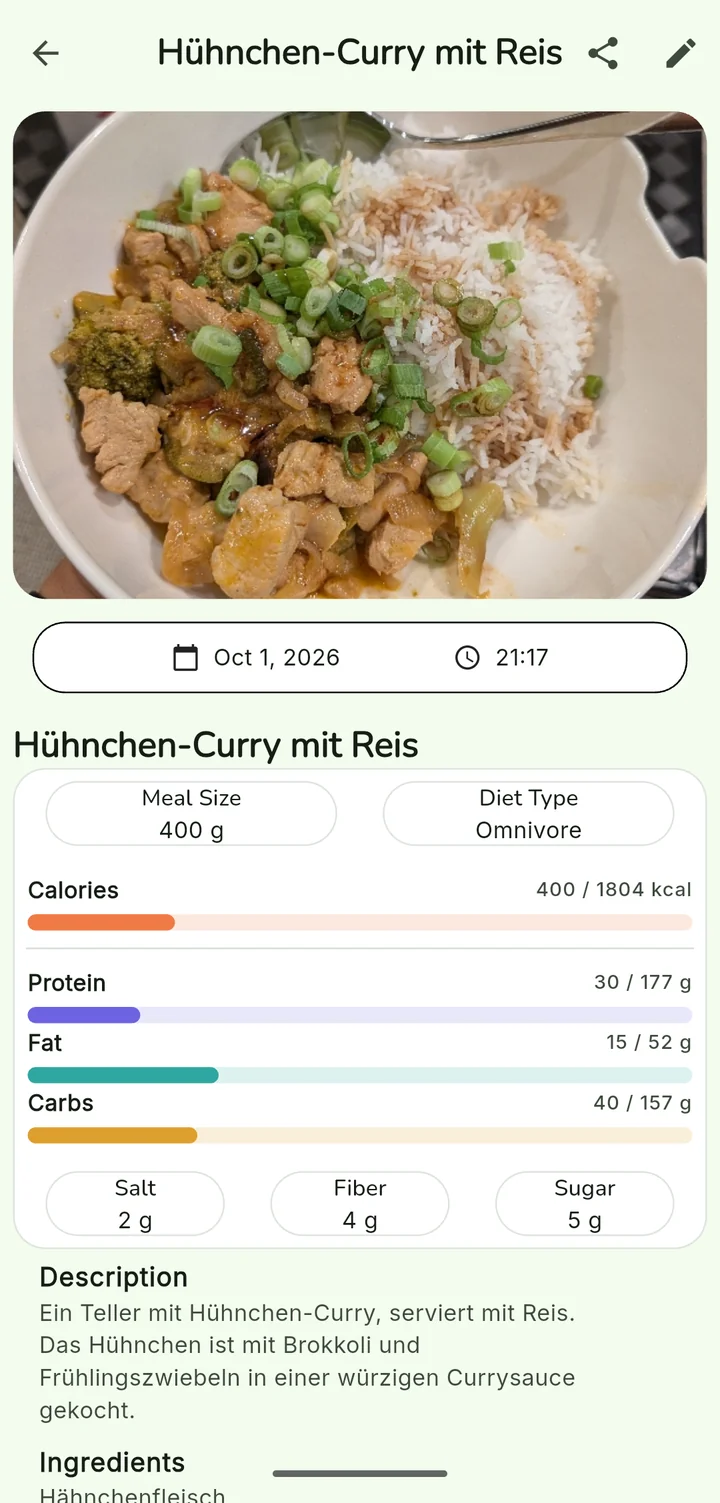
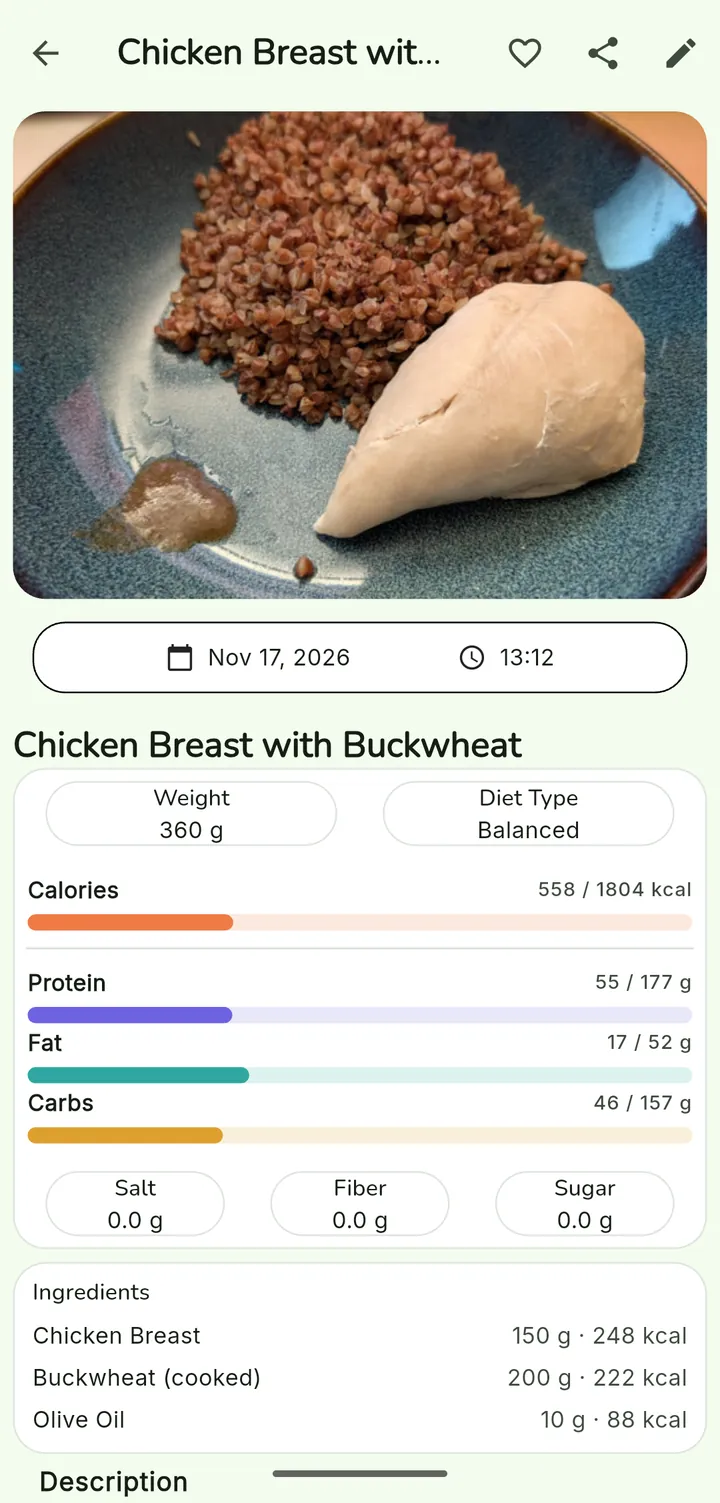
Refresh NutriMax screenshots from the current app
The NutriMax page shows four screens from the current UI: the tracking
screen, a meal's breakdown, editing a meal in Pro Mode, and the Meal
Board. The old day-review and barcode shots are removed.

The home page NutriMax card shows the old four-screen strip in place of
the emoji banner, and the app grid lets a single card fill the row.

diff --git a/nutrimax/index.html b/nutrimax/index.html
@@ -371,20 +371,20 @@ layout: null
       <!-- Real NutriMax screens, English UI; status bar cropped off. 720x1503 WebP. -->
       <div class="screenshots">
         <figure>
-          <img src="assets/screenshot-meal-board.webp" alt="The Meal Board: a wall of meal photos (dumplings, ramen, a bagel, curry, rice with salad) with a card reading 'Every meal is a fresh start.'" width="720" height="1503" loading="lazy">
-          <figcaption>Your meals, as a wall of photos</figcaption>
+          <img src="assets/screenshot-tracking.webp" alt="The tracking screen for one day: a strip of dates, 564 kcal left with protein, carbs and fat bars, and the day's meals with photos — ramen, sticky mango rice and summer rolls with prawns" width="720" height="1503" loading="lazy">
+          <figcaption>Your day at a glance</figcaption>
         </figure>
         <figure>
-          <img src="assets/screenshot-day-review.webp" alt="A tracked day: 1104 kcal left, protein, carbs and fat bars, an AI day review of calories and macros, and two meals with photos" width="720" height="1503" loading="lazy">
-          <figcaption>Your day, with an AI review</figcaption>
-        </figure>
-        <figure>
-          <img src="assets/screenshot-meal-detail.webp" alt="A logged meal: chicken curry with rice, 400 g, 400 kcal, with protein, fat, carbs, salt, fibre and sugar" width="720" height="1503" loading="lazy">
+          <img src="assets/screenshot-meal-detail.webp" alt="A logged meal: chicken breast with buckwheat, 360 g, 558 kcal, with protein, fat, carbs, salt, fibre and sugar, and the ingredients the estimate is based on" width="720" height="1503" loading="lazy">
           <figcaption>Every estimate, broken down</figcaption>
         </figure>
         <figure>
-          <img src="assets/screenshot-barcode.webp" alt="A scanned packaged product, organic olives: 144 kcal per 100 g with values from Open Food Facts, using none of your AI scans" width="720" height="1503" loading="lazy">
-          <figcaption>Packaged food by barcode</figcaption>
+          <img src="assets/screenshot-edit-meal.webp" alt="Editing a meal with Pro Mode switched on: a 595 kcal ramen bowl with its macros, a meal-size slider and a meal weight that rescales every ingredient" width="720" height="1503" loading="lazy">
+          <figcaption>Adjust the portion, or go ingredient by ingredient</figcaption>
+        </figure>
+        <figure>
+          <img src="assets/screenshot-meal-board.webp" alt="The Meal Board: a wall of meal photos (pancakes, soup, curry with rice, pilaf with salad) with a card reading 'Every meal is a fresh start.'" width="720" height="1503" loading="lazy">
+          <figcaption>Your meals, as a wall of photos</figcaption>
         </figure>
       </div>
     </div>

diff --git a/index.html b/index.html
@@ -57,7 +57,7 @@ layout: null
     }
     .product-grid {
       display: grid;
-      grid-template-columns: repeat(auto-fill, minmax(280px, 1fr));
+      grid-template-columns: repeat(auto-fit, minmax(280px, 1fr));
       gap: 1.5rem;
     }
     .product-card {
@@ -81,6 +81,13 @@ layout: null
       align-items: center;
       justify-content: center;
       font-size: 3rem;
+    }
+    /* A card can show its app's screens in place of the emoji banner. */
+    .product-card-shots {
+      display: block;
+      width: 100%;
+      height: auto;
+      border-bottom: 1px solid var(--border);
     }
     .product-card-body { padding: 1.25rem; flex: 1; }
     .product-card-body h3 { font-size: 1.15rem; margin-bottom: 0.3rem; }
@@ -121,7 +128,7 @@ layout: null
       <p class="products-subtitle">Discover what we've built.</p>
       <div class="product-grid">
         <a href="nutrimax/index.html" class="product-card">
-          <div class="product-card-banner">🥗</div>
+          <img class="product-card-shots" src="nutrimax/assets/nutrimax-screens.webp" alt="Four NutriMax screens: the Meal Board of meal photos, a tracked day with an AI day review, a logged chicken curry with its calories and macros, and a scanned packaged product" width="1920" height="1002">
           <div class="product-card-body">
             <h3>NutriMax</h3>
             <p>Snap your meal, AI does the logging — photo-first calorie tracking you'll actually stick with. No database searching, no weighing.</p>
